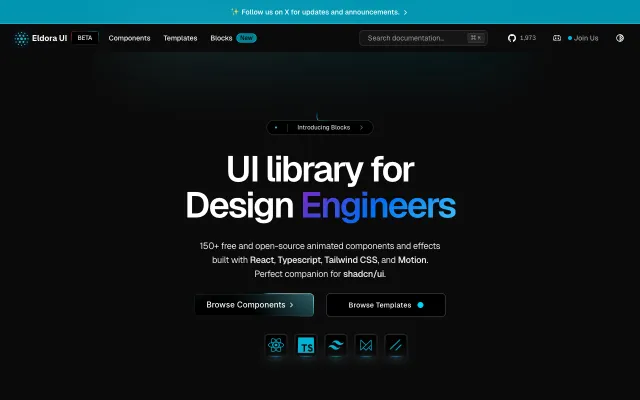
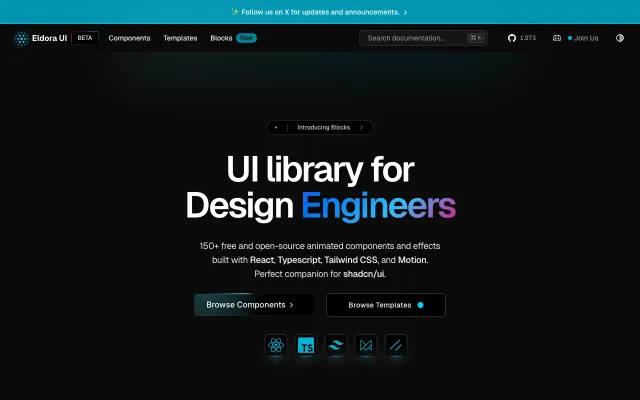
fix(screenshots): add --redetect and keep README attachment URLs valid
Why: --force recaptured from the saved sources.json, so fixing source
detection did not fix entries captured before the fix. GitHub's rendered
README also turns attachments into private-user-images URLs with a JWT
that expires within minutes, so those sources failed on any later
recapture (eldoraui, Evil-Buttons, color4bg.js).

What:
- --redetect replaces sources.json with freshly detected sources and
  recaptures; it is mutually exclusive with --force and requires --only.
- readme_images rewrites signed attachment URLs to
  https://github.com/user-attachments/assets/<uuid>, which redirects to
  the same image; signed URLs without a uuid are skipped.
- The three affected sources.json files were rewritten the same way and
  recaptured.
- Test covering the attachment rewrite and the stat-image exclusions.

Decision: --redetect requires --only because it discards hand-edited
sources; running it across the whole list would silently undo curation.
Rewriting the signed URL was chosen over parsing the raw Markdown README,
since the uuid is already in the signed URL and detection keeps using the
rendered HTML.

Changed region(s): [[0.4688, 0.48, 0.7188, 0.57], [0.2812, 0.72, 0.5, 0.81]]

diff --git a/scripts/screenshots.py b/scripts/screenshots.py
@@ -1,7 +1,7 @@
 #!/usr/bin/env python3
 """Captures up to four screenshots per list.json entry into assets/screenshots/.
 
-Usage: python3 scripts/screenshots.py [--only owner/name|url ...] [--force]
+Usage: python3 scripts/screenshots.py [--only owner/name|url ...] [--force | --redetect]
 
 Each entry has a directory assets/screenshots/<owner>__<name>/ (site__<host>
 for a url entry) holding
@@ -10,7 +10,8 @@ to four items, each a page or image URL, or {"url": ..., "y": pixels} to
 capture a page scrolled down. An animated GIF is captured 60% of the way
 through, or at {"url": ..., "t": fraction} from 0 to 1. A missing sources.json is detected once: the
 repository homepage and the first README images, or the site itself. Edit it to pick better views,
-then rerun with --only.
+then rerun with --only. --force recaptures from the existing sources.json; --redetect replaces it
+with freshly detected sources, discarding hand edits.
 
 Needs Google Chrome or Chromium, and cwebp. GIF frames need ffmpeg and ffprobe;
 without them a GIF shows its first frame. Only one browser runs at a time.
@@ -54,6 +55,12 @@ NOT_A_SCREENSHOT = re.compile(
     r"shields\.io|shieldcn\.dev|repobeats|badge|/workflows/|travis-ci|codecov|opencollective|sponsor|buymeacoffee"
     r"|contrib\.rocks|contrib-circles|star-history|vercel\.com/button|hits\.|logo|icon|avatar|banner",
     re.I,
+)
+# README attachments render as signed URLs that expire within minutes; the
+# github.com/user-attachments form redirects to the same image and lasts.
+SIGNED_ATTACHMENT = re.compile(
+    r"^https://private-user-images\.githubusercontent\.com/\d+/\d+-"
+    r"([0-9a-f]{8}-[0-9a-f]{4}-[0-9a-f]{4}-[0-9a-f]{4}-[0-9a-f]{12})\."
 )
 
 WRAPPER = """<!doctype html><meta charset="utf-8">
@@ -133,6 +140,11 @@ def readme_images(repo, token):
     found = []
     for src in IMG.findall(rendered):
         src = src.replace("&amp;", "&")
+        if "private-user-images." in src:
+            signed = SIGNED_ATTACHMENT.match(src)
+            if not signed:
+                continue
+            src = "https://github.com/user-attachments/assets/" + signed.group(1)
         if src.startswith("http") and not NOT_A_SCREENSHOT.search(src) and src not in found:
             found.append(src)
     return found
@@ -278,8 +290,12 @@ def capture(chrome, url, y, t, out):
 def main():
     parser = argparse.ArgumentParser(description=__doc__, formatter_class=argparse.RawDescriptionHelpFormatter)
     parser.add_argument("--only", action="append", default=[], metavar="owner/name|url", help="capture just this entry; repeatable")
-    parser.add_argument("--force", action="store_true", help="recapture entries that already have screenshots")
+    group = parser.add_mutually_exclusive_group()
+    group.add_argument("--force", action="store_true", help="recapture entries that already have screenshots")
+    group.add_argument("--redetect", action="store_true", help="detect sources again, replacing sources.json, and recapture")
     args = parser.parse_args()
+    if args.redetect and not args.only:
+        parser.error("--redetect discards hand-edited sources; name the entries with --only")
 
     if not shutil.which("cwebp"):
         sys.exit("cwebp not found. Install the webp tools.")
@@ -293,9 +309,9 @@ def main():
     todo = [
         e for e in entries
         if (key(e).lower() in only if only else True)
-        and (args.force or bool(only) or not shots(key(e)))
+        and (args.force or args.redetect or bool(only) or not shots(key(e)))
     ]
-    missing = [e for e in todo if read_sources(key(e)) is None]
+    missing = [e for e in todo if args.redetect or read_sources(key(e)) is None]
     if missing:
         token = _token() if any(e.get("repo") for e in missing) else None
         with ThreadPoolExecutor(max_workers=8) as pool:

diff --git a/tests/test_harness.py b/tests/test_harness.py
@@ -22,6 +22,7 @@ SCRIPTS = {
     "collect": "skills/research-candidates/scripts/collect_facts.py",
     "audit": "skills/audit-list/scripts/audit.py",
     "build": "scripts/build.py",
+    "screenshots": "scripts/screenshots.py",
 }
 
 
@@ -395,6 +396,19 @@ class RuntimeTests(unittest.TestCase):
             self.assertTrue(text.startswith("Before\n"))
             self.assertTrue(text.endswith("After\n"))
             self.assertNotIn("<img", text)
+
+    def test_readme_images_keep_lasting_urls_only(self):
+        shots = load("screenshots")
+        signed = ("https://private-user-images.githubusercontent.com/7636626/356249575-"
+                  "68dd9cc9-3182-49ee-b8d5-cd6301902b6e.jpg?jwt=abc&amp;x=1")
+        html = ('<img src="%s"><img src="https://private-user-images.githubusercontent.com/1/x.png?jwt=abc">'
+                '<img src="https://www.shieldcn.dev/github/stars/a/b.svg"><img src="https://repobeats.axiom.co/api/embed/1.svg">'
+                '<img src="https://contrib-circles.vercel.app/a/b"><img src="https://example.com/demo.png">' % signed)
+        with patch.object(shots, "gh", return_value=html):
+            self.assertEqual(shots.readme_images("a/b", None), [
+                "https://github.com/user-attachments/assets/68dd9cc9-3182-49ee-b8d5-cd6301902b6e",
+                "https://example.com/demo.png",
+            ])
 
     def test_build_adds_existing_screenshots_to_an_entry(self):
         build = load("build")
